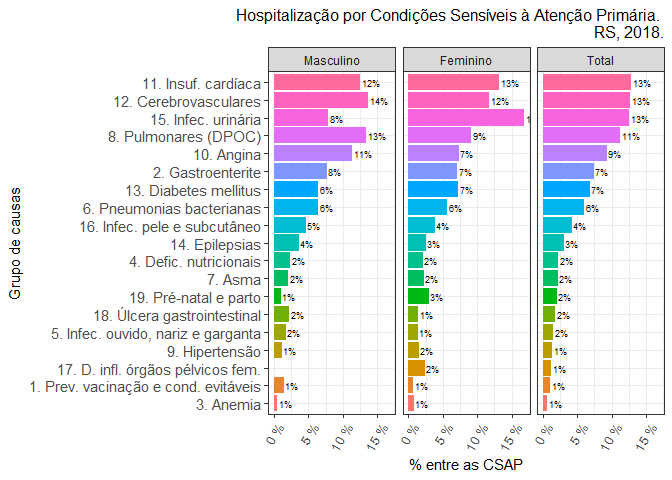
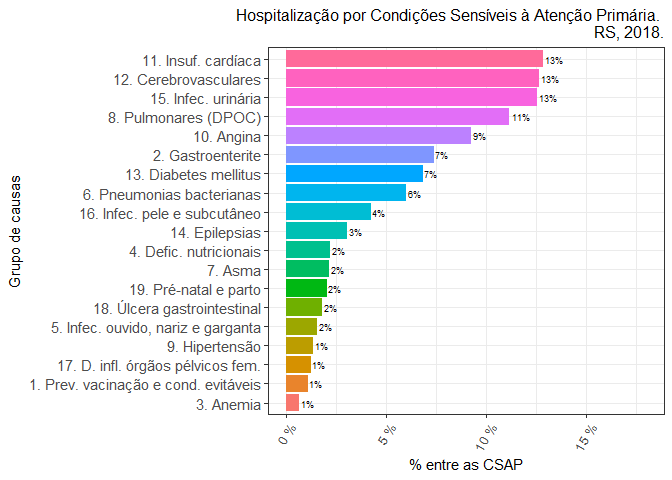
Atualizando o README

diff --git a/README.md b/README.md
@@ -1,4 +1,19 @@
 
+- <a href="#csapaih" id="toc-csapaih">csapAIH</a>
+  - <a href="#apresentação" id="toc-apresentação">Apresentação</a>
+  - <a href="#justificativa" id="toc-justificativa">Justificativa</a>
+  - <a href="#instalação" id="toc-instalação">Instalação</a>
+  - <a href="#conteúdo-timeline" id="toc-conteúdo-timeline">Conteúdo
+    (<em>timeline</em>)</a>
+  - <a href="#dependências" id="toc-dependências">Dependências</a>
+  - <a href="#exemplos-de-uso" id="toc-exemplos-de-uso">Exemplos de uso</a>
+    - <a href="#a-partir-da-leitura-de-arquivos-de-dados"
+      id="toc-a-partir-da-leitura-de-arquivos-de-dados">A partir da leitura de
+      arquivos de dados</a>
+    - <a href="#apresentação-de-resultados"
+      id="toc-apresentação-de-resultados">Apresentação de resultados</a>
+  - <a href="#referências" id="toc-referências">Referências</a>
+
 <!-- README.md is generated from README.Rmd. Please edit that file -->
 
 # csapAIH
@@ -85,18 +100,19 @@ do gráfico por categorias de outros fatores do banco de dados, com o uso
 das funções `facet_wrap()` e `facet_grid()`, de `ggplot2`, e permite
 ainda o desenho de gráficos com as funções básicas, sem a instalação do
 pacote `ggplot2`. Foi ainda criada uma função para o cálculo da idade
-nos arquivos da AIH: a função **idadeSUS** é usada internamente por
+nos arquivos da AIH: a função `idadeSUS` é usada internamente por
 `csapAIH` e pode ser chamada pelo usuário para calcular a idade sem a
 necessidade de classificar as CSAP.
 
 Na versão 0.0.4, a função `csapAIH` oferece a opção de classificação das
-CSAP em 20 grupos de causa, como sugerido por Alfradique et al. (2009).
-As funções `desenhaCSAP` e `tabCSAP` têm um argumento para seleção do
-idioma dos nomes de grupos, em português (`pt`, padrão), espanhol (`es`)
-ou inglês (`en`). Foram criadas as funções `ler_popbr` e
-`popbr2000_2021` (esta sobre o pacote de Saldanha (2022)) para acesso às
-estimativas populacionais publicadas pelo DATASUS e funções para
-categorização da idade em faixas etárias.
+CSAP em 20 grupos de causa, como sugerido por Alfradique et al.
+([2009](#ref-Alfradique2009)). As funções `desenhaCSAP` e `tabCSAP` têm
+um argumento para seleção do idioma dos nomes de grupos, em português
+(`pt`, padrão), espanhol (`es`) ou inglês (`en`). Foram criadas as
+funções `ler_popbr` e `popbr2000_2021` (esta sobre o pacote de Saldanha
+([2022](#ref-brpopref))) para acesso às estimativas populacionais
+publicadas pelo DATASUS e funções para categorização da idade em faixas
+etárias.
 
 A ajuda sobre o pacote oferece mais detalhes sobre as funções e seu uso.
 Veja no
@@ -206,7 +222,8 @@ csapAIH(cids)
 #### Resumo de importação de dados
 
 Um resumo de importação, apresentado durante a realização do trabalho, é
-guardado como atributo do banco de dados:
+guardado como atributo do banco de dados e pode ser recuperado com as
+funções `attr()` ou `attributes()`:
 
 ``` r
 csap <- csapAIH("data-raw/RDRS1801.dbc") # cria o data.frame
@@ -214,12 +231,13 @@ csap <- csapAIH("data-raw/RDRS1801.dbc") # cria o data.frame
 #> Excluídos 8.240 (13,6%) registros de procedimentos obstétricos.
 #> Excluídos 366 (0,6%) registros de AIH de longa permanência.
 #> Exportados 51.923 (85,8%) registros.
-attributes(csap)$resumo
+attr(csap, "resumo")
 #>           acao  freq  perc                                  objeto
 #> 1   Importados 60529 100.0                              registros.
 #> 2 Excluídos \t  8240  13.6 registros de procedimentos obstétricos.
 #> 3 Excluídos \t   366   0.6  registros de AIH de longa permanência.
 #> 4   Exportados 51923  85.8                              registros.
+# attributes(csap)$resumo
 ```
 
 Em tabela para apresentação:
@@ -269,10 +287,9 @@ descreveCSAP(csap)
 
 #### Tabela para apresentação
 
-(com a função `kable`, do pacote `knitr`)
-
 ``` r
-knitr::kable(descreveCSAP(csap), align = c('l', rep('r', 3)))
+descreveCSAP(csap) |>
+  knitr::kable(align = c('l', rep('r', 3)))
 ```
 
 | Grupo                                 |  Casos | %Total | %CSAP |
@@ -300,17 +317,80 @@ knitr::kable(descreveCSAP(csap), align = c('l', rep('r', 3)))
 | não-CSAP                              | 41.059 |  79,08 |     – |
 | Total de internações                  | 51.923 |    100 |     – |
 
+``` r
+tabCSAP(csap$grupo, digits = 1, lang = "en", format = T) |>
+  knitr::kable(align = c('l', rep('r', 3)))
+```
+
+| Group                                |  Cases | Total % | ACSC % |
+|:-------------------------------------|-------:|--------:|-------:|
+| 1\. Vaccine prev. and amenable cond. |    118 |     0.2 |    1.1 |
+| 2\. Gastroenteritis                  |    802 |     1.5 |    7.4 |
+| 3\. Anemia                           |     73 |     0.1 |    0.7 |
+| 4\. Nutritional deficiency           |    241 |     0.5 |    2.2 |
+| 5\. Ear, nose and throat infec.      |    168 |     0.3 |    1.5 |
+| 6\. Bacterial pneumonia              |    653 |     1.3 |    6.0 |
+| 7\. Asthma                           |    234 |     0.5 |    2.2 |
+| 8\. Pulmonary (COPD)                 |  1,213 |     2.3 |   11.2 |
+| 9\. Hypertension                     |    147 |     0.3 |    1.4 |
+| 10\. Angina                          |  1,005 |     1.9 |    9.3 |
+| 11\. Heart failure                   |  1,394 |     2.7 |   12.8 |
+| 12\. Cerebrovascular                 |  1,373 |     2.6 |   12.6 |
+| 13\. Diabetes mellitus               |    743 |     1.4 |    6.8 |
+| 14\. Convulsions and epilepsy        |    331 |     0.6 |    3.0 |
+| 15\. Urinary infection               |  1,360 |     2.6 |   12.5 |
+| 16\. Skin and subcutaneous infec.    |    459 |     0.9 |    4.2 |
+| 17\. Pelvic inflammatory disease     |    133 |     0.3 |    1.2 |
+| 18\. Gastrointestinal ulcers         |    195 |     0.4 |    1.8 |
+| 19\. Pre-natal and childbirth        |    222 |     0.4 |    2.0 |
+| ACSC                                 | 10,864 |    20.9 |    100 |
+| Non ACSC                             | 41,059 |    79.1 |      – |
+| TOTAL hospitalizations               | 51,923 |     100 |      – |
+
+``` r
+
+tabCSAP(csap$grupo, digits = 1, lang = "es", format = T) |>
+  knitr::kable(align = c('l', rep('r', 3)))
+```
+
+| Grupo                                     |  Casos | % Total | % CSAP |
+|:------------------------------------------|-------:|--------:|-------:|
+| 1\. Prev. vacunación y otros medios       |    118 |     0,2 |    1,1 |
+| 2\. Gastroenterites                       |    802 |     1,5 |    7,4 |
+| 3\. Anemia                                |     73 |     0,1 |    0,7 |
+| 4\. Def. nutricionales                    |    241 |     0,5 |    2,2 |
+| 5\. Infec. oído, nariz y garganta         |    168 |     0,3 |    1,5 |
+| 6\. Neumonía bacteriana                   |    653 |     1,3 |    6,0 |
+| 7\. Asma                                  |    234 |     0,5 |    2,2 |
+| 8\. Enf. vías respiratorias inferiores    |  1.213 |     2,3 |   11,2 |
+| 9\. Hipertensión                          |    147 |     0,3 |    1,4 |
+| 10\. Angina de pecho                      |  1.005 |     1,9 |    9,3 |
+| 11\. Insuf. cardíaca congestiva           |  1.394 |     2,7 |   12,8 |
+| 12\. Enf. cerebrovasculares               |  1.373 |     2,6 |   12,6 |
+| 13\. Diabetes mellitus                    |    743 |     1,4 |    6,8 |
+| 14\. Epilepsias                           |    331 |     0,6 |    3,0 |
+| 15\. Infección urinaria                   |  1.360 |     2,6 |   12,5 |
+| 16\. Infec. piel y subcutáneo             |    459 |     0,9 |    4,2 |
+| 17\. Enf infl órganos pélvicos femeninos  |    133 |     0,3 |    1,2 |
+| 18\. Úlcera gastrointestinal              |    195 |     0,4 |    1,8 |
+| 19\. Enf. del embarazo, parto y puerperio |    222 |     0,4 |    2,0 |
+| Total CSAP                                | 10.864 |    20,9 |    100 |
+| No-CSAP                                   | 41.059 |    79,1 |      – |
+| Total de ingresos                         | 51.923 |     100 |      – |
+
 #### Gráficos
 
 ``` r
-gr <- desenhaCSAP(csap, titulo = "auto", onde = "RS", quando = 2018)
+gr <- desenhaCSAP(csap, titulo = "auto", onde = "RS", quando = 2018, limsup = .18)
+#> Scale for y is already present.
+#> Adding another scale for y, which will replace the existing scale.
 gr
 ```
 
-<img src="man/figures/README-unnamed-chunk-12-1.png" width="50%" />
+<img src="man/figures/README-unnamed-chunk-13-1.png" width="50%" style="display: block; margin: auto;" />
 
-*Estratificado por categorias de outra variável presente no banco de
-dados:*
+**Estratificado por categorias de outra variável presente no banco de
+dados:**
 
 Observe que ao estratificar o gráfico mantém a ordenação por frequência
 da variável em seu todo, sem a estratificação, quando o argumento
@@ -318,11 +398,10 @@ da variável em seu todo, sem a estratificação, quando o argumento
 
 ``` r
 rot <- ggplot2::as_labeller(c("masc" = "Masculino", "fem" = "Feminino", "(all)" = "Total"))
-gr + ggplot2::facet_grid(~ sexo, margins = TRUE,
-                         labeller = rot)
+gr + ggplot2::facet_grid(~ sexo, margins = TRUE, labeller = rot)
 ```
 
-<img src="man/figures/README-unnamed-chunk-13-1.png" width="50%" />
+<img src="man/figures/README-unnamed-chunk-14-1.png" width="50%" style="display: block; margin: auto;" />
 
 ``` r
 
@@ -331,13 +410,13 @@ gr + ggplot2::facet_wrap(~ munres == "431490",
                                                            "TRUE" = "Capital")))
 ```
 
-<img src="man/figures/README-unnamed-chunk-13-2.png" width="50%" />
+<img src="man/figures/README-unnamed-chunk-14-2.png" width="50%" style="display: block; margin: auto;" />
 
 ***Veja o manual do pacote em:***
 <https://github.com/fulvionedel/csapAIH/blob/master/docs/csapAIH_0.0.4.pdf>
 
-badges: start badges: end
-
+<!-- badges: start -->
+<!-- badges: end -->
 <!-- You'll still need to render `README.Rmd` regularly, to keep `README.md` up-to-date. `devtools::build_readme()` is handy for this. You could also use GitHub Actions to re-render `README.Rmd` every time you push. An example workflow can be found here: <https://github.com/r-lib/actions/tree/v1/examples>. -->
 
 ## Referências
